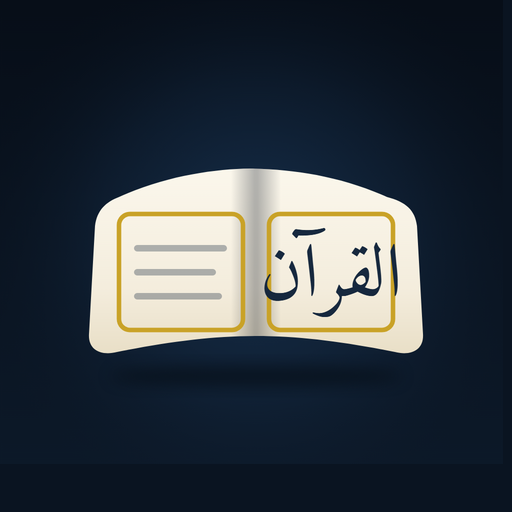
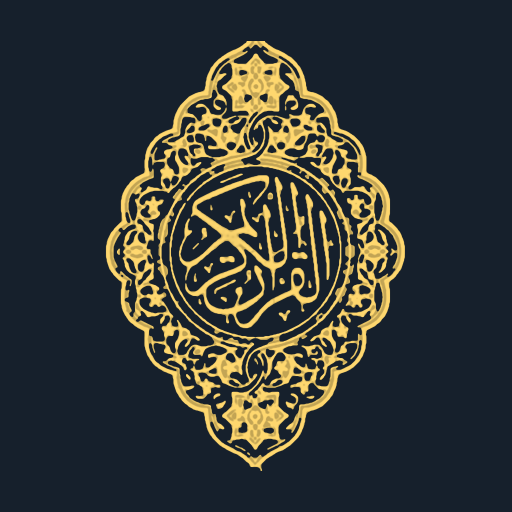
4.8: the cover's medallion becomes the app's mark
The app's mark is now the cover's own medallion, the gold ornament and
its calligraphy traced from the cover photograph and never redrawn, on
the app's blue ink #16202C in the gold #E3C063. The launcher carries it
at five densities with its adaptive layers, the background the ink alone
and the monochrome layer the medallion's silhouette so a themed home
screen keeps the shape. The reminder's small icon is the ornament alone
with no ground, because the shade reads only its alpha channel and paints
it in the notification color. The store icon at 512 and a feature graphic
built from the cover's own border bands, its mihrab arch, and the app's
two real screens replace the old book. The reading is untouched.

Changed region(s): [[0.1562, 0.0625, 0.8438, 0.9375]]

diff --git a/app/src/main/kotlin/io/github/muntasimulhaque/quran/daily/DailyAyahScheduler.kt b/app/src/main/kotlin/io/github/muntasimulhaque/quran/daily/DailyAyahScheduler.kt
@@ -340,6 +340,16 @@ object DailyAyahScheduler {
                         ?: return@launch
                     val notification = runCatching {
                         NotificationCompat.Builder(application, CHANNEL_ID)
+                            // The reminder wears the app's mark, the cover's
+                            // medallion. The drawable is the ornament alone
+                            // with no ground, because the shade reads only its
+                            // alpha channel and paints it in the notification
+                            // color, so the ground would be thrown away and
+                            // the plate under it would be a lie. At the status
+                            // bar's size the ornament turns to dust, and the
+                            // mark keeps the cover's own weight anyway: a
+                            // sturdier cut was drawn and read, and it closed
+                            // into a dark lozenge (owner decision).
                             .setSmallIcon(R.drawable.ic_daily)
                             .setContentTitle(
                                 application.getString(

diff --git a/play-store/listing.md b/play-store/listing.md
@@ -1,6 +1,6 @@
 # Store kit
 
-Version: 4.7 (versionCode 49)
+Version: 4.8 (versionCode 50)
 
 ## Listing
 
@@ -91,6 +91,21 @@ for.
 - Phone screenshots: `screenshots/phone/` (1080 x 1920), eight of them
 - 7 inch tablet screenshots: `screenshots/tablet7/` (800 x 1280), eight of them
 - 10 inch tablet screenshots: `screenshots/tablet10/` (2560 x 1800), eight of them
+
+The icon and the feature graphic are the cover the app was built from. The mark
+is the cover's own medallion, its gold ornament and its calligraphy traced from
+the cover photograph and never redrawn, set on the app's blue ink `#16202C` in
+the gold `#E3C063`. The launcher carries it at five densities and in its
+adaptive layers, the background the ink alone and the monochrome layer the
+medallion's silhouette, sturdier than the mark so a themed home screen keeps the
+shape, and `icon-512.png` is the same drawing at 512. The reminder's small icon
+is the ornament with no ground at all, because the shade reads only its alpha
+channel and paints it in the notification color, so a ground there would be
+thrown away. The feature graphic sets the cover's own border bands along its top
+and bottom, its mihrab arch at the left with the medallion inside it, the name
+in Amiri Quran and Literata, and the app's two real screens at the right,
+1024 x 500, 24-bit with no alpha. The share card still carries the old open book
+until the owner says otherwise.
 
 The set is refreshed for 4.7 from capture run 37632440858: all three legs green first try, no reruns, eight frames each. Seventeen of the twenty-four frames changed and every changed frame was measured and read. The three surah-opening frames carry the release's own change, the long-press hint pill wearing the app's one soft lift where the platform's cast stood. Seven frames are byte-identical to the 4.6 set. The rest differ only in the status bar clock and icons, except the 10 inch chrome and study frames, three pixels of subpixel rasterization at a delta of 1 of 255, and the 10 inch ayah card, subpixel rasterization of the dimmed page behind the sheet, where 390 of its 53,825 differing pixels stand above a delta of 2 and the rest at 1 or 2. No frame was added or removed. The set is refreshed for 4.6 from capture run 37625066438: all three legs green first try, eight frames each. Fifteen of the twenty-four frames changed and every changed frame was measured and read. Nine frames are byte-identical to the 4.5 set. The phone surah opening differs by one pixel at a delta of 1 of 255; the 10 inch chrome and study frames by a chroma-only patch of the status bar icons; and beyond the clock, the phone ayah card differs in seven pixels and the 10 inch ayah card in one pixel, all at a delta of 1 of 255. Every other changed frame differs only in the status bar clock, and the 10 inch search frame also in the captured text caret. The release's own change, the app's one choice row with its leading mark and one gap, is in none of the eight frames, because neither playback menu is one of them. The set is refreshed for 4.5 from capture run 37593744899: all three legs green first try, eight frames each. The three search frames carry the release own change, the folded sources door and the one-line match count; the two tablet settings frames also carry the new default reciter, Husary; every other changed frame was measured and read, and differs only in the status bar clock and subpixel rasterization. The set is refreshed for 4.3 from capture run 37482561715: all three legs green first try, eight frames each. Fifteen of the twenty-four frames changed and every changed frame was read. The three ayah card frames carry the release's own change, the footnote markers 98 through 103 drawn in the app's accent where the 4.2 set drew them in the reading's own tone. Nine frames are byte-identical to the 4.2 set; the phone surah opening and the 10 inch chrome and study frames differ only by subpixel rasterization (a maximum delta of 1 of 255), and the search, settings, and Browse frames only in the status bar clock, with the phone and 7 inch search frames also in the captured text caret. The playback menu's shadow and spacing are not one of the eight frames, so they show nowhere in the set. The set is refreshed for 4.2 from capture run 37420105035: all three legs green first try, eight frames each. Fourteen of the twenty-four frames changed and every changed frame was read: the phone and 7 inch search, settings, Browse, and ayah card frames differ only in the status bar clock, the phone search frame also in the captured text caret, the 10 inch chrome and study frames by subpixel rasterization alone, and the 10 inch search, settings, Browse, and ayah card frames in the status bar clock and icons. The release's own change, the listening answers, is not one of the eight. The set is refreshed for 4.1 from capture run 37332479837 attempt 1, all three legs green first try, no reruns, eight frames each. Every frame was compared with the 4.0 set by `cmp` (fourteen of the twenty-four changed) and every changed frame was read. The reading did not move: the Mushaf, chrome, and study frames are byte-identical, the phone surah opening and the 10 inch Mushaf differ by subpixel rasterization alone, and the search, settings, and Browse frames differ only in the status bar clock, the soft keyboard's chrome, the bottom system bar, and the anti-aliased edges of the switches. The ayah card frame changed on all three legs by one system bar's height: the sheet stands 63 px (phone), 43 px (7 inch), and 64 px (10 inch) lower, and below that top edge the card is byte-identical to the 4.0 frame at that shift, so the reading is the same and only the capture environment moved it. The release's own change is in none of the eight, because neither playback surface is one of them; the version text is in none either, because the About row stands below the settings frame's visible area. The set is refreshed for 3.9 from capture run 37183334879: all three legs green on the first attempt, eight frames each, every frame compared with the 3.8 set by `cmp` and every changed frame read. The three settings frames carry 3.9 own answers: the headings read Interface, Reading, Recitation, Reminder, with the group names and the explanation lines as the change; twelve frames are byte-identical to the 3.8 set, and the other nine differ only in the status bar clock, the search caret, and subpixel rasterization of the dimmed page on the 10 inch ayah card. The 3.9 build that took the ask and the new face (versionCode 41) was captured again from run 37192834469, whose 10 inch leg was rerun after it came back short of the eight frames: all three legs green with eight frames each, and the set is unchanged, because neither the app's face nor the Daily page is one of the eight, and the only differences are the clock, the caret, and subpixel rasterization. The set is refreshed for 3.6 from capture run 36982589370: the phone and 7 inch legs green on the first attempt, the 10 inch leg green on its second, after SavedNotesTest failed inside Compose own prefetch scheduler on a worker with no looper, a failure that leg has already shown once on the 3.5 line (run 36911766796), and the tour itself was green on all three legs with eight frames each. Every frame was compared with the 3.5 set by `cmp` (eighteen of the twenty four changed) and every changed frame was read. The changed frames carry 3.6 own reading: the word by word aid is a reading and not a control, so a pair is as wide as its own meaning and a row fills properly, where the 3.5 set left a short pair alone at the end of each row on the 48 dp touch target that went with the tap. The other changed frames are the status bar clock, and a subpixel shift of the whole text block on the surah opening frame. The three mushaf frames are byte-identical to the 3.5 set, which is the point: the reading did not move. The icon and the feature graphic are the illuminated spread: an open mushaf on the app's deep ink field, the warm ivory pages rising into a gutter and falling to the outer corners, a gold frame on each page the way a mushaf carries one, the word Quran in Amiri on the right page and the written lines on the left. The store icon, the adaptive layers, and the monochrome silhouette are one drawing, as is the notification's own small icon and the mark the share card carries; the feature graphic is the book centered on the same field, 1024 x 500, 24-bit with no alpha. The set is refreshed for 3.5 from capture run 36958563721: the phone and 10 inch legs green on the first attempt, the 7 inch leg green on its third attempt after two environment-shaped losses (a content wait and a sheet freeze on a loaded runner, the same binary had passed the whole tour hours earlier), eight frames each, every frame compared with the previous set by `cmp` (fifteen of the twenty four changed) and every changed frame read. The changed frames carry the reading voice of 3.5: the English translation is set in its own optical cut, the word by word aid and the ayah card read as they do, the search frame is still a real answer (492 matches, the word washed), and the settings frame still speaks one grammar. The three mushaf frames are byte-identical to the 3.4 set, which is the point: the reading did not move. The set was refreshed for 3.3 from capture run 36758466353: all three legs green on the first attempt, eight frames each, twenty four frames compared with their artifacts by `cmp` (all twenty four changed) and every one of them read. This is the first complete set since 3.0, and it carries three defects that were in the store and in the app. The **page is whole**: it was drawn stretched to the glass, so on the 10 inch leg the frame showed the top two fifths of a page with two thirds of it below the screen, and every ayah on the lower lines could not be touched at all. The **footnote markers are on their line**: they were lifted three whole ems above the text they belong to, and 2:255, which the card frame photographs, carries six of them. The **search frame is a real answer**: the tour waited for any text holding "match", which the sheet's own "No matches." satisfies before a search has run, so the frame in the 3.3 capture was a sheet that had found nothing on a query with 492 matches. The settings frames carry 3.3's own answers: the font size on one line, every chevron on the margin a switch ends at, and Version 3.3 in About. The word by word aid is a row of pairs again. The set was refreshed for 2.8 from run 36448152056: the tablet10 leg's first attempt met the launcher ANR over the keyboard-heavy search frame, a known capture-environment failure, and the guard refused the frame; one rerun, and attempt 2 is green on all three legs. Every frame was compared with its artifact by `cmp` (24 matches) and every changed frame was read. The settings frames are the release's: the switch is now the last mark on every row, all switches on one line and all chevrons on another, and the About row reads Version 2.8. The other changed frames are the status bar clock, the tablet10 search frame's soft keyboard chrome (the class the 2.7 set already recorded), and subpixel antialiasing, a maximum delta of 2 of 255 on the tablet10 Mushaf frame.
 
@@ -200,6 +215,10 @@ What each set shows, in order:
 6. The settings hub
 7. Browse, Surahs
 8. The ayah card, with its tafsir doors
+
+## Release notes (4.8, 420 characters)
+
+A new face. The app now wears the cover's medallion, the gold ornament and its calligraphy traced from the cover itself and set on the app's own blue ink. It stands in the launcher, in the reminder's small icon on the status bar, and on the store page, and the old open book is gone. The reading is untouched: the same pages, the same study view, the same recitations, offline as always. No ads, no trackers, no account.
 
 ## Release notes (4.7, 312 characters)
 

diff --git a/README.md b/README.md
@@ -4,7 +4,9 @@ A free, open source Quran reader for Android. It opens on the page you left,
 turns like paper, and keeps the Quran text itself at the center: no ads, no
 trackers, no accounts, nothing collected, ever.
 
[2 lines of base64/hex data omitted]
+
+**In 4.8.** The app has a new face: the cover's own medallion, its gold ornament and its calligraphy traced from the cover the app was built from and set on the app's own blue ink. It stands in the launcher, in the reminder's small icon on the status bar, and on the store page, and the old open book is gone. The reading is untouched: the same pages, the same study view, the same recitations, offline as always. No ads, no trackers, no account.
 
 **In 4.7.** The controls that float over the page now wear one soft, even shadow: the playback pill, the ayah actions, and the menus they open keep a gentle lift in place of the platform's dark cast, so the line of Quran under them stays clear and one control looks the same on every phone. No ads, no trackers, no account.
 

diff --git a/AGENTS.md b/AGENTS.md
@@ -412,6 +412,12 @@ implement it and update this list.
 - The day's ayah is dealt from a shuffled deck rather than walked in the
   Book's order: a different ayah every morning, every ayah once before the
   deck is filled again, and nothing stored (owner decision).
+- The app's mark is the cover's medallion: the gold ornament and its
+  calligraphy traced from the cover photograph, never redrawn, set on the
+  app's blue ink `#16202C` in the gold `#E3C063`. The launcher (with the
+  medallion's silhouette as its monochrome layer), the reminder's small icon
+  (the ornament alone, no ground, since the shade reads only its alpha), the
+  store icon, and the feature graphic all carry it (owner decision, 4.8).
 
 ## Traps
 
